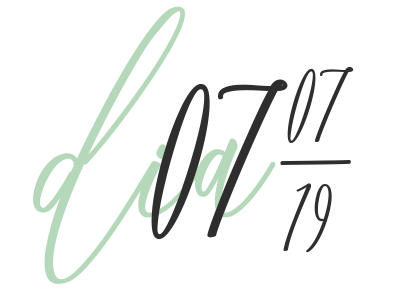
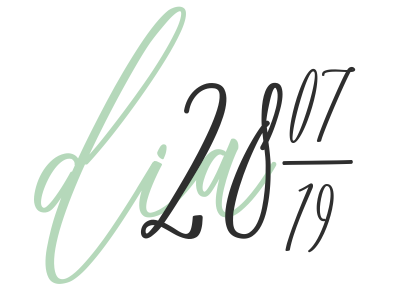
alteração de data

diff --git a/casamento/js/counter.js b/casamento/js/counter.js
@@ -1,5 +1,5 @@
 // Set the date we're counting down to
-var countDownDate = new Date("Jul 7, 2019 15:30:00").getTime();
+var countDownDate = new Date("Jul 28, 2019 15:30:00").getTime();
 
 // Update the count down every 1 second
 var x = setInterval(function() {
